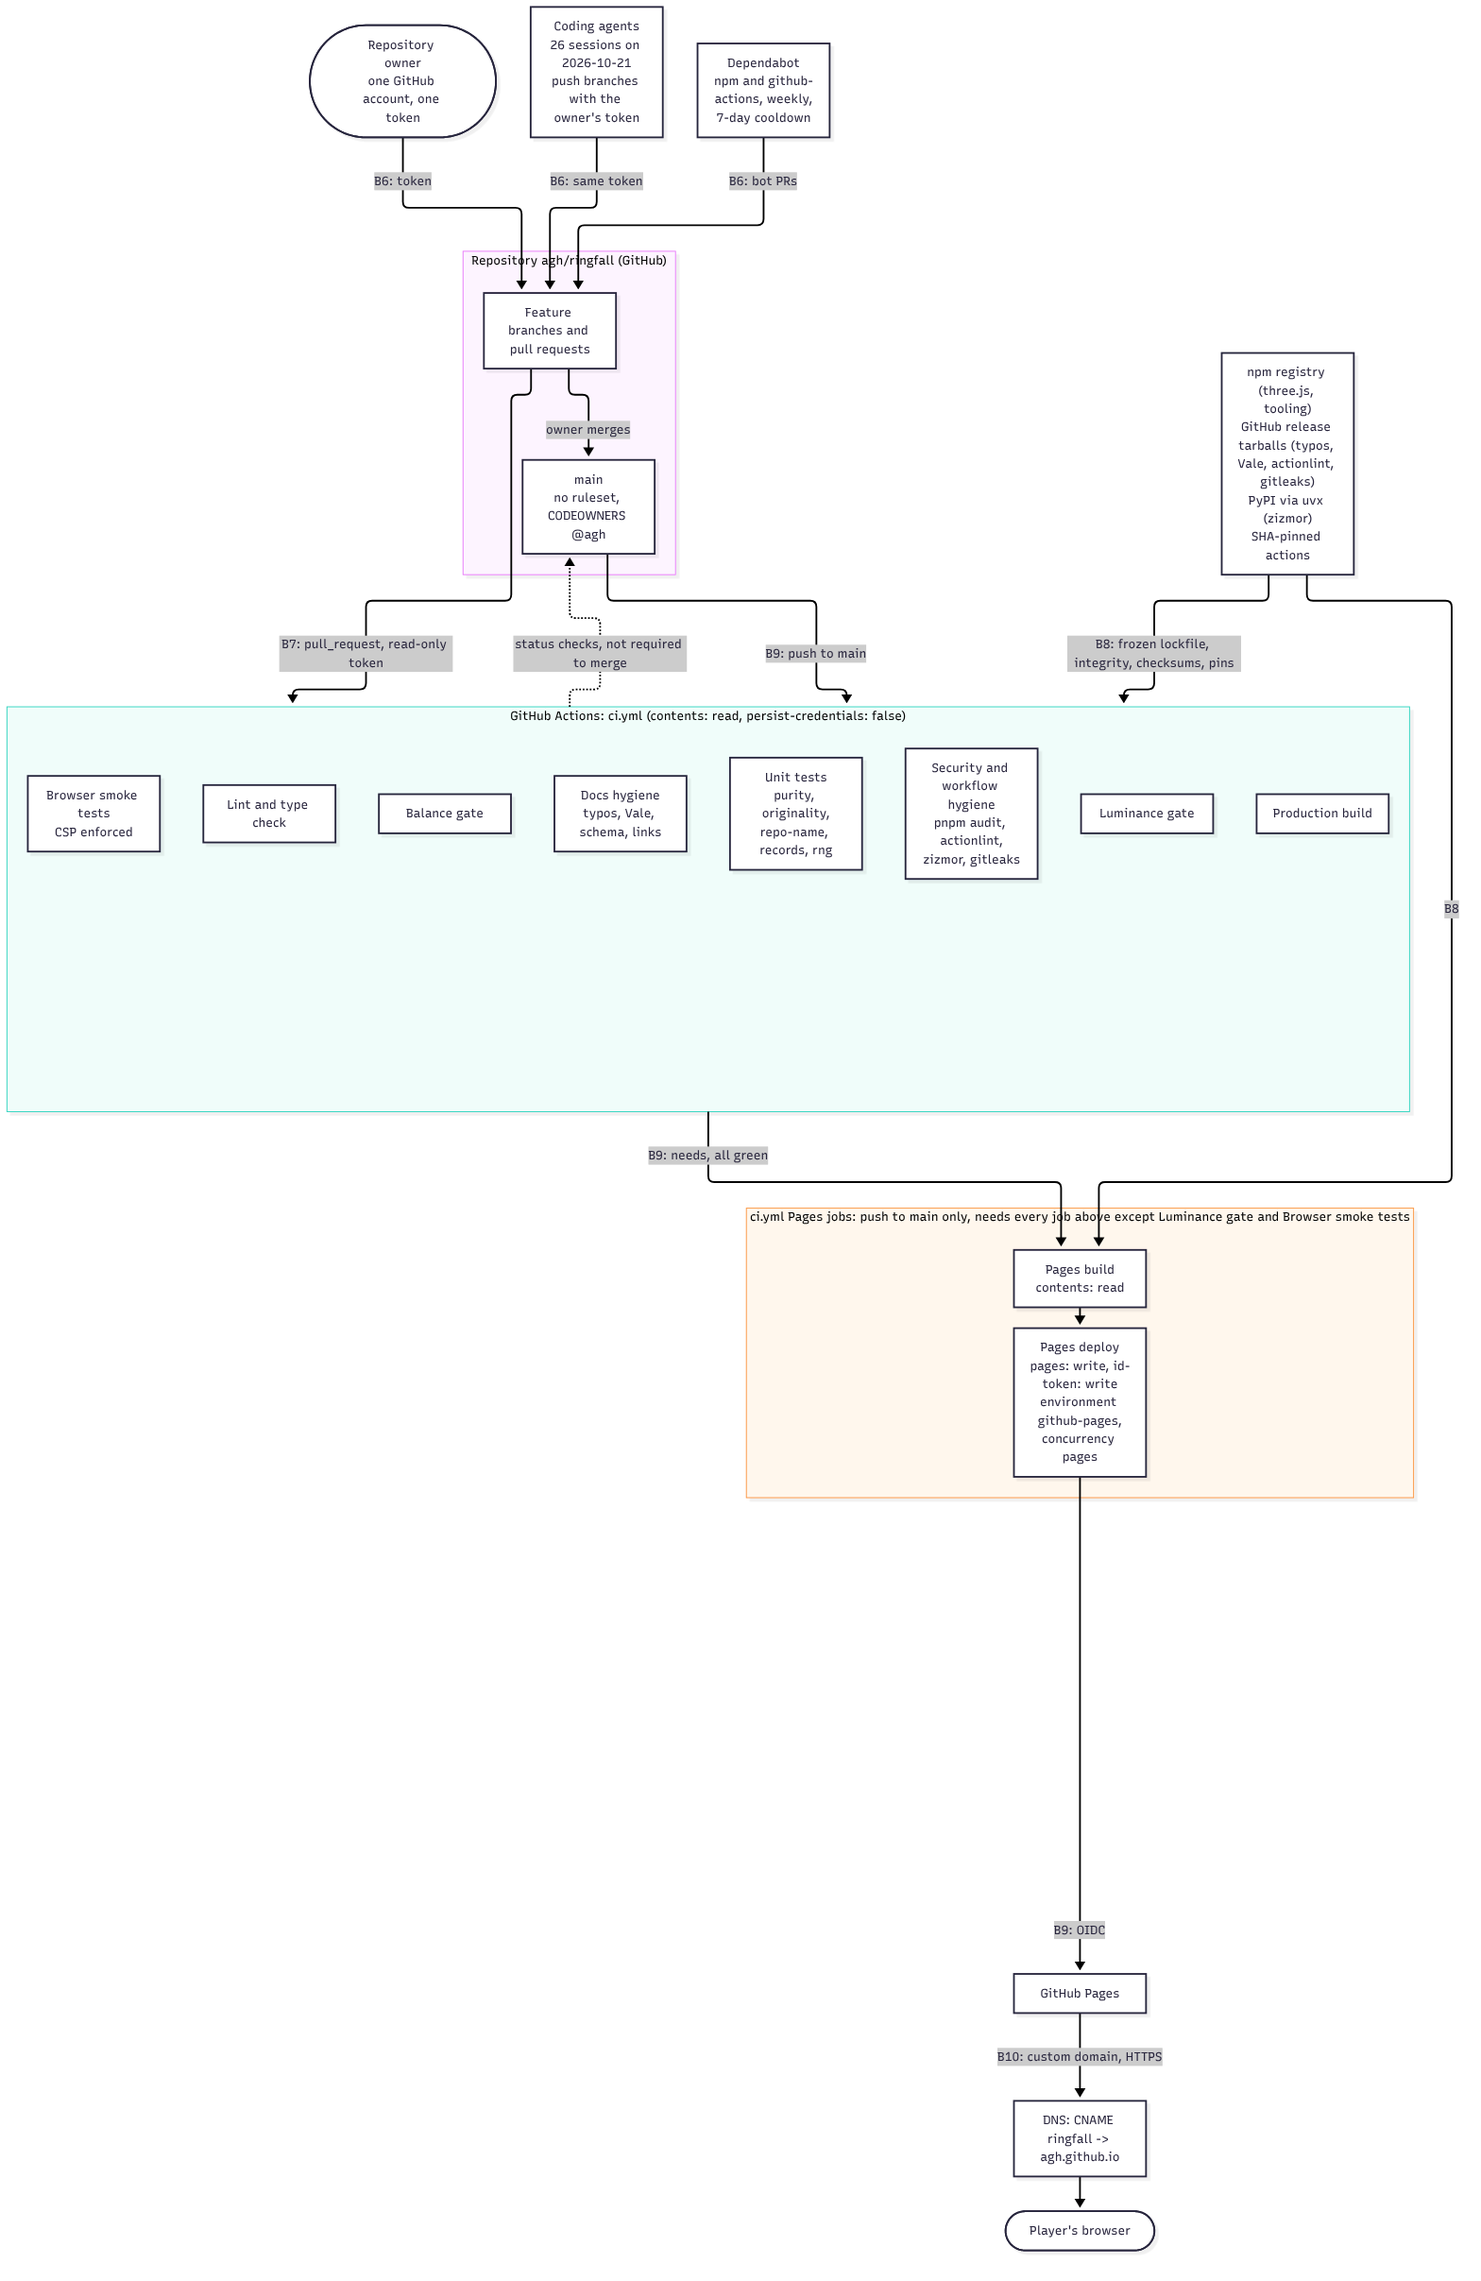
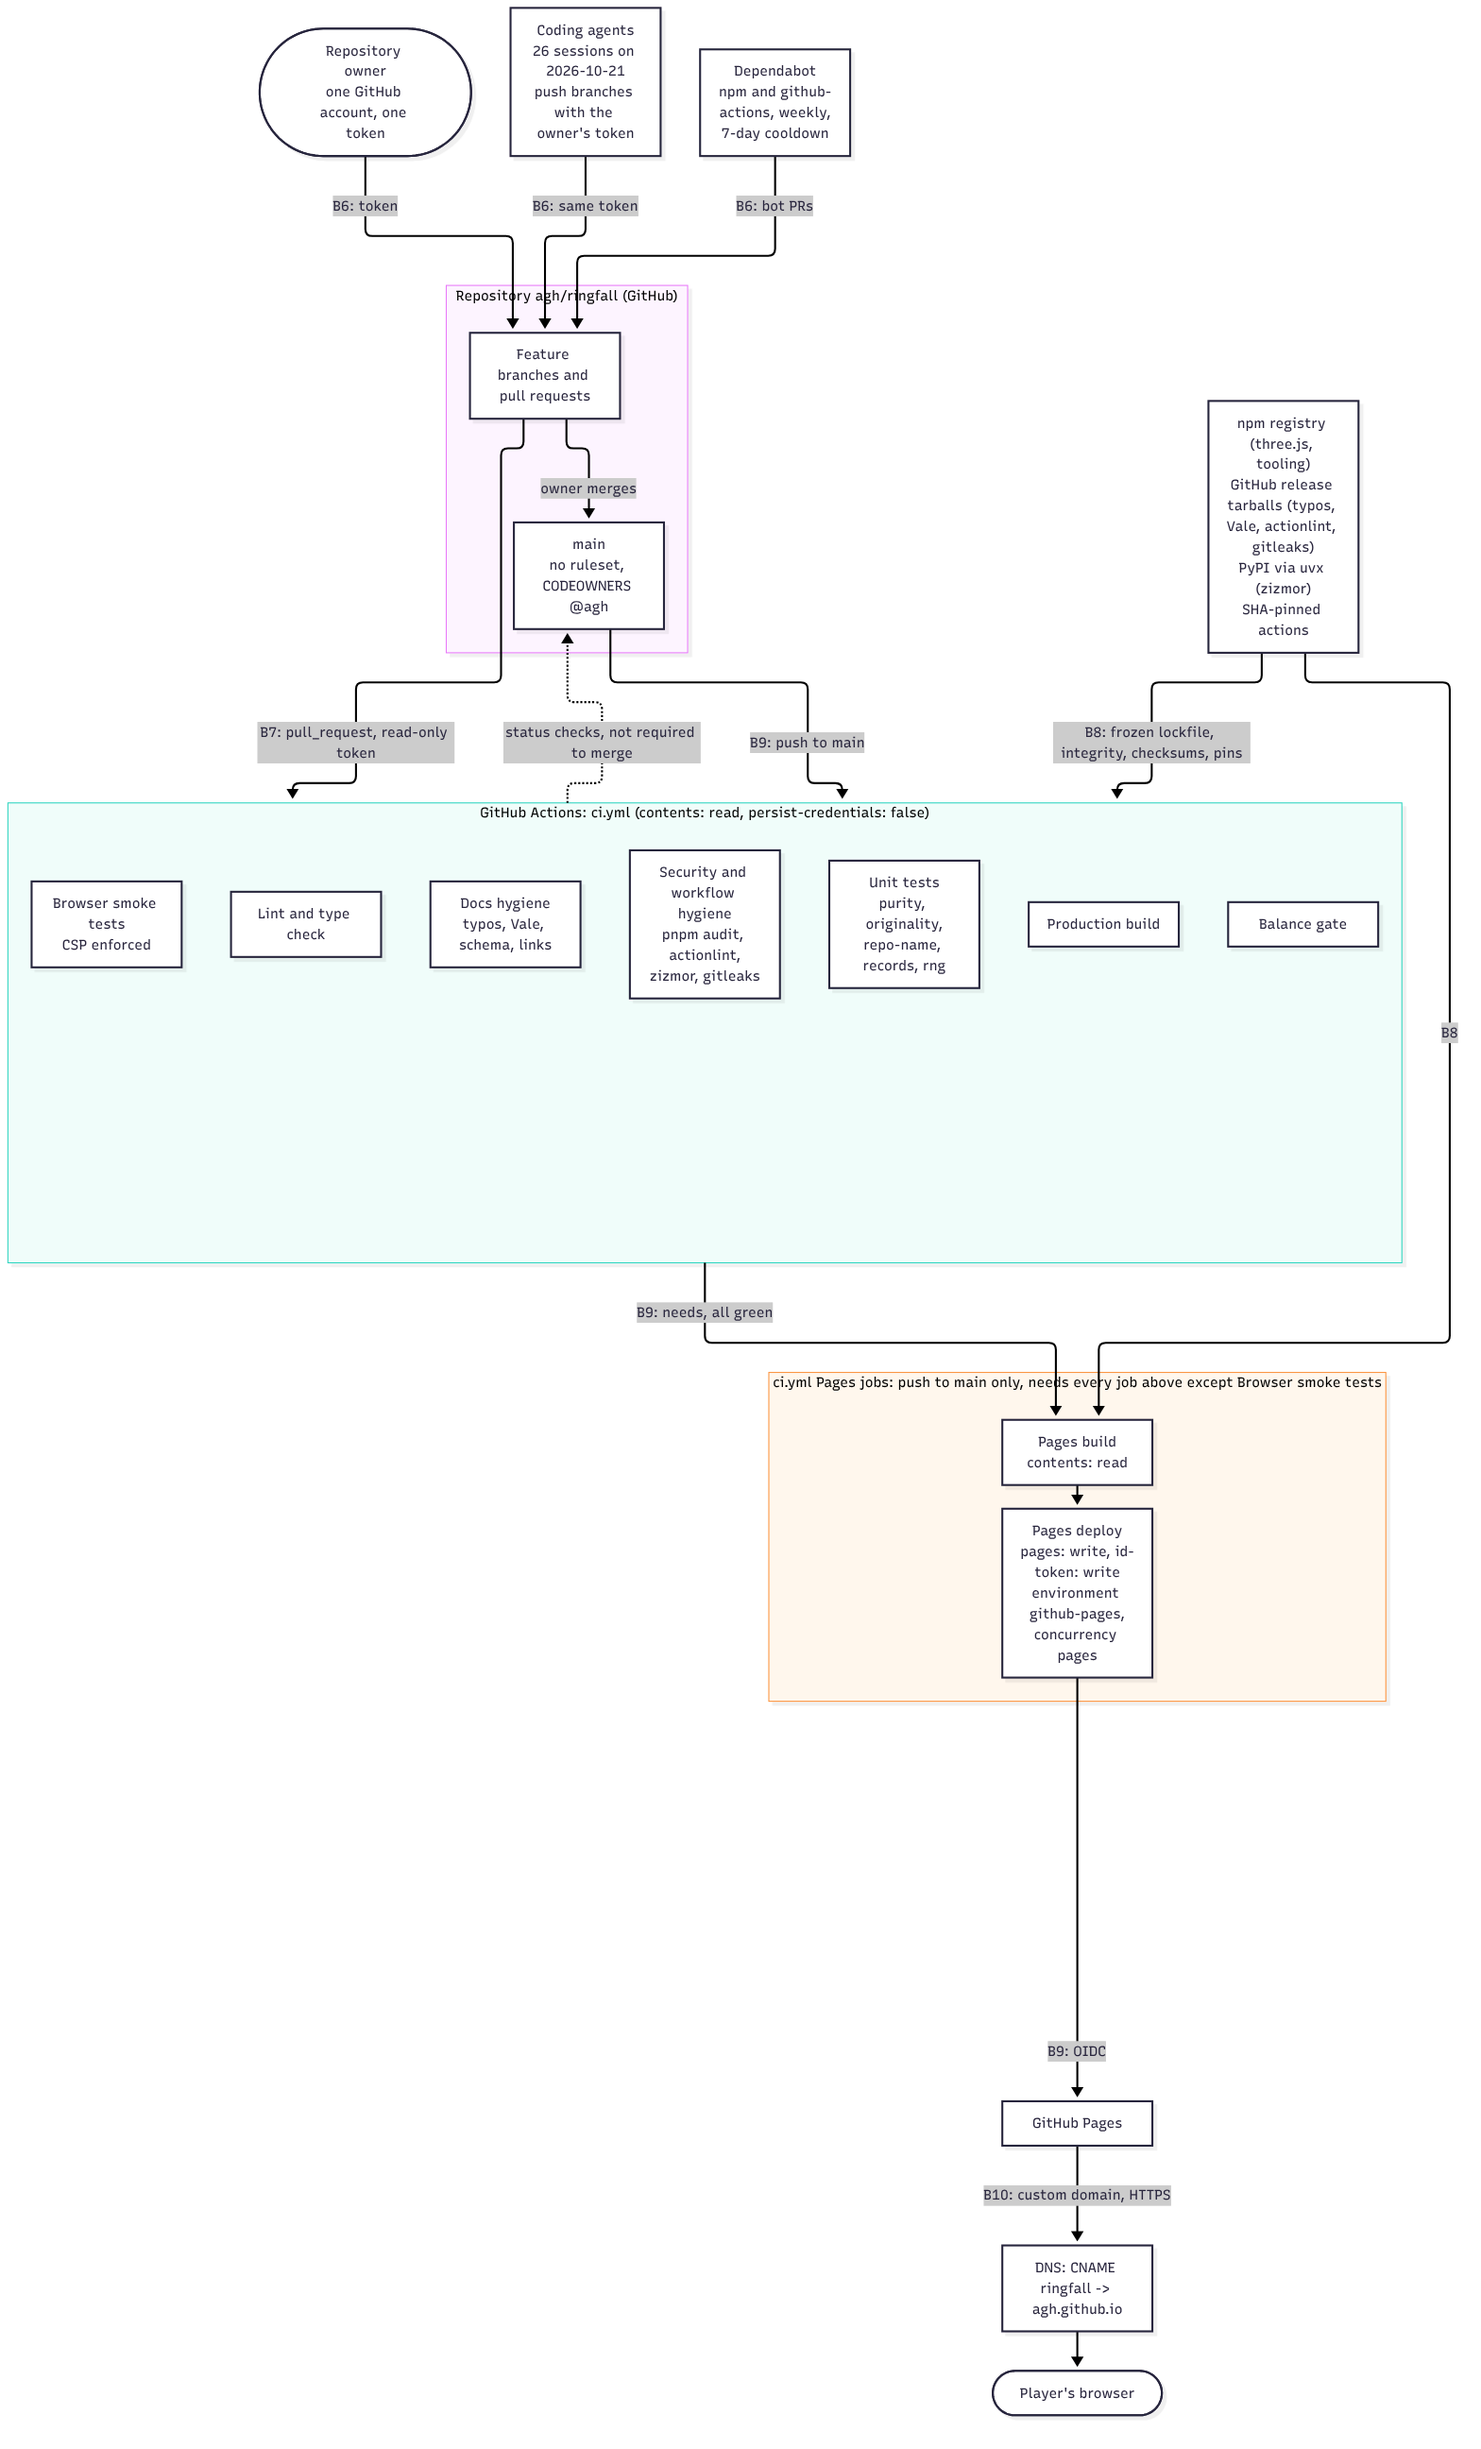
docs: follow PR #104, the luminance gate as its own optional workflow
Part of #97 (Pass B). AGENTS.md lists both workflows; the architecture
README, its build diagram and the changelog count seven gate jobs in
ci.yml with the luminance gate in frames.yml; the launch checklist and
the runbook drop it from the jobs the deploy and the tag wait on; the
delivery diagram is re-rendered from the label #104 changed.

Claude-Session: https://claude.ai/code/session_01ApXjDPsd6B7Tp18a3jrdjZ

diff --git a/docs/architecture/README.md b/docs/architecture/README.md
@@ -94,7 +94,7 @@ Source: [diagrams/containers.mmd](diagrams/containers.mmd).
 | Luminance gate | Playwright Chromium on software GL | Ten seeded frames measured against budgets | `scripts/frames.mjs` |
 | Recorder and score | Playwright Chromium, ffmpeg, `OfflineAudioContext` | A seeded film and its soundtrack | `scripts/record-demo.mjs`, `scripts/render-score.mjs` |
 | Reel | Playwright Chromium, ffmpeg | Title cards, two waves, stitched cut | `scripts/reel.mjs` |
-| CI | GitHub Actions, every action pinned to a commit SHA | Eight gate jobs, then the Pages build and deploy on `main` | `.github/workflows/` |
+| CI | GitHub Actions, every action pinned to a commit SHA | Seven gate jobs, then the Pages build and deploy on `main`; the luminance gate is a separate optional workflow | `.github/workflows/` |
 
 ## Level 3: components
 
@@ -195,12 +195,11 @@ runs the same scripts.
 | `pnpm balance` | The balance gate; writes `test-results/balance/` |
 | `pnpm demo` | Films seed 7 and scores it into `demo.mp4` |
 
-The one workflow, `.github/workflows/ci.yml`, runs eight independent gate
+The CI workflow, `.github/workflows/ci.yml`, runs seven independent gate
 jobs on every pull request and every push to `main`; a pull request push cancels a
 superseded run, a push to `main` always runs to completion. Two more jobs,
 Pages build and Pages deploy, run only on a push to `main` and only after
-every gate except the luminance gate and the browser smoke tests has
-passed (#100), so a merge never
+every gate except the browser smoke tests has passed (#100, #104), so a merge never
 publishes a build that failed a gate. Every action is pinned to a commit
 SHA and checkouts do not persist credentials; the deploy job is the only
 one with write permission.
@@ -210,7 +209,7 @@ one with write permission.
 | Lint and type check | Biome, markdownlint, strict TypeScript | none |
 | Unit tests | Every core rule and the coverage thresholds in `vitest.config.ts` | `coverage` |
 | Browser smoke tests | The built page loads, starts, advances, moves on keys, no page errors | `playwright-report` (the HTML report and the traces) on failure |
-| Luminance gate | Ten seeded frames within the mean and blob budgets in `scripts/frames.mjs` | `frames` |
+| Luminance gate (`frames.yml`, pull requests that touch the renderer, or by hand) | Ten seeded frames within the mean and blob budgets in `scripts/frames.mjs` | `frames` |
 | Production build | `vite build` succeeds | `dist` |
 | Balance gate | Twenty seeded games per profile within `tests/balance/gate.ts` | `balance-report`, also appended to the job summary |
 | Docs hygiene | Frontmatter, typos, Vale, internal links; external links advisory | none |
@@ -218,7 +217,7 @@ one with write permission.
 | Pages build | `main` only, after the fast gates: `pnpm build` and `upload-pages-artifact` | `github-pages` |
 | Pages deploy | `main` only, after Pages build: `deploy-pages` with `pages: write` and an OIDC token | the live site |
 
-![Build and delivery: the eight gate jobs, the two Pages jobs behind them, and the local recorder, reel and documentation pipelines](render/build.png)
+![Build and delivery: the seven gate jobs, the two Pages jobs behind them, and the local recorder, reel and documentation pipelines](render/build.png)
 
 Source: [diagrams/build.mmd](diagrams/build.mmd).
 
@@ -260,7 +259,7 @@ enforces it, so a reader can find the gate before changing the behavior.
 | Determinism from a seed | Arena layout, AI jitter and the bot derive from `createRng(seed)`; the clock seeds production only | `src/core/rng.ts`; the determinism assertions in `tests/unit/bot.test.ts`; `parseSeed` in `src/core/rng.ts` for `?seed=` |
 | Frame budget | The simulation steps at exactly 1/60 s, at most five steps per frame, and the frame delta is clamped to between 0 and 0.1 s | `FIXED_DT`, `MAX_STEPS_PER_FRAME` and the `frameDt` clamp in `src/main.ts` |
 | Particle cap | One `Points` draw call with a fixed pool, sprites capped at 64 px and faded inside two meters of the eye | The pool capacity and the vertex shader in `src/render/particles.ts` |
-| Luminance budget | Ten seeded frames keep a mean under the day and night budgets with no saturated blob over the limit | `BUDGET` and `FRAME_SET` in `scripts/frames.mjs`; the CI `Luminance gate` job |
+| Luminance budget | Ten seeded frames keep a mean under the day and night budgets with no saturated blob over the limit | `BUDGET` and `FRAME_SET` in `scripts/frames.mjs`; the `Luminance gate` workflow (`frames.yml`) |
 | Balance | Twenty seeded games per bot profile stay within baseline-derived bounds | `GATE_THRESHOLDS` in `tests/balance/gate.ts`; the CI `Balance gate` job |
 | Coverage | `src/core/` is covered to the thresholds | `coverage.thresholds` in `vitest.config.ts` |
 | Design numbers | Every gameplay number quoted in the design document equals the constant that owns it | `tests/unit/design-doc.test.ts` |

diff --git a/CHANGELOG.md b/CHANGELOG.md
@@ -132,9 +132,12 @@ and this project adheres to
 
 ### Changed
 
+- The luminance gate is its own optional workflow (`.github/workflows/frames.yml`)
+  on pull requests that touch the renderer and by hand; the smoke job is
+  capped at twelve minutes (#104).
 - The Pages build waits on the lint, unit, build, balance, docs and
-  security jobs only; the luminance gate and the browser smoke tests still
-  fail the run but no longer hold the deploy. The smoke tests wait up to
+  security jobs only; the browser smoke tests (and, until #104, the
+  luminance gate) still fail the run but no longer hold the deploy. The smoke tests wait up to
   four minutes for the first simulation step and the e2e job uploads the
   Playwright traces, and since #96 the HTML report, as `playwright-report`
   on failure (#100).

diff --git a/docs/runbook.md b/docs/runbook.md
@@ -65,8 +65,8 @@ pnpm check          # lint, typecheck, unit tests with coverage, build
 
 The `Pages build` and `Pages deploy` jobs at the end of
 `.github/workflows/ci.yml` run on every push to `main`, after every other
-CI job on that push except the luminance gate and the browser smoke tests
-has passed (`needs`, #100), so a red run never ships. The
+CI job on that push except the browser smoke tests has passed (`needs`
+since #100 and #104), so a red run never ships. The
 build job installs with the frozen lockfile, runs `pnpm build`, calls
 `actions/configure-pages`, and uploads `dist/` with
 `actions/upload-pages-artifact`. The deploy job publishes that artifact

diff --git a/docs/launch-checklist.md b/docs/launch-checklist.md
@@ -31,7 +31,7 @@ a push to `main`, so a green badge on a pull request proves nothing about
 the site.
 
 **CI is green on the exact commit to be tagged.** The lint, unit, browser
-smoke, luminance gate, build, balance gate, docs hygiene, and security jobs in `.github/workflows/ci.yml` must all pass on the
+smoke, build, balance gate, docs hygiene, and security jobs in `.github/workflows/ci.yml` must all pass on the
 head of `main`, not on an earlier commit. This prevents a tag pointing at a
 commit that was pushed after the last green run, which is how a release
 ships with a type error nobody saw.

diff --git a/AGENTS.md b/AGENTS.md
@@ -120,7 +120,7 @@ ringfall/
 │   ├── research/     # Sourced research reports
 │   ├── journey/      # Time-indexed build log and frames
 │   └── adr/          # Architecture decision records
-└── .github/workflows # ci.yml only: lint, unit, e2e, luminance, build, balance, docs, security, then Pages build and deploy
+└── .github/workflows # ci.yml: lint, unit, e2e, build, balance, docs, security, then Pages build and deploy; frames.yml: the optional luminance gate
 ```
 
 **Key Files:**
